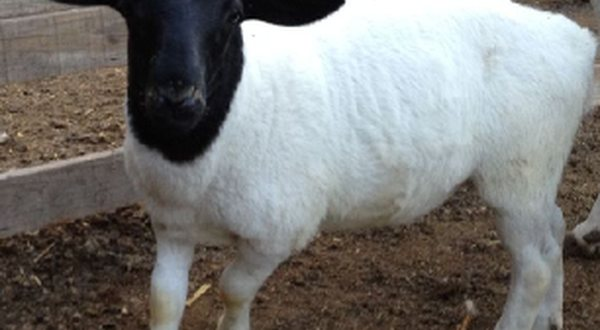
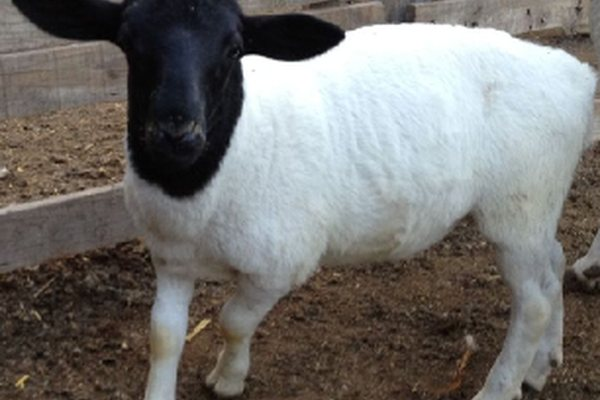
att

diff --git a/assets/css/style.css b/assets/css/style.css
@@ -316,7 +316,15 @@ ul    { list-style: none; padding: 0; }
 }
 .aa-raca-card:hover { transform: translateY(-4px); }
 .aa-raca-card-img {
-    width: 100%; height: 170px; object-fit: cover; display: block;
+    /* Antes: height fixo de 170px. Como o card tem largura variável, isso dava
+       uma faixa muito achatada (2,2:1) e cortava cabeça e patas do animal —
+       e as fotos vinham recortadas em faixa, então era corte sobre corte.
+       Com aspect-ratio a caixa acompanha a proporção da própria foto, então o
+       animal aparece inteiro em qualquer largura de card. */
+    width: 100%; height: auto;
+    aspect-ratio: 3 / 2;
+    object-fit: cover; object-position: center;
+    display: block; background: #f0fdf4;
 }
 .aa-raca-body { padding: 18px 22px 22px; }
 .aa-raca-emoji { font-size: 36px; margin-bottom: 10px; }
@@ -816,7 +824,7 @@ ul    { list-style: none; padding: 0; }
     .aa-hero { min-height: auto; padding: 90px 0 60px; }
     .aa-whatsapp-card, .aa-contact-card { padding: 24px; }
     .aa-about-box { padding: 32px 24px; }
-    .aa-raca-card-img { height: 140px; }
+    .aa-raca-card-img { height: auto; }  /* aspect-ratio cuida da altura */
     .aa-cta-box { padding: 32px 20px; }
     .aa-cta-title { font-size: 20px; }
     .aa-cta-desc  { font-size: 14px; }
@@ -837,7 +845,7 @@ ul    { list-style: none; padding: 0; }
     .aa-ficha-card { padding: 20px 16px; }
 
     /* Raças */
-    .aa-raca-card-img { height: 120px; }
+    .aa-raca-card-img { height: auto; }  /* aspect-ratio cuida da altura */
     .aa-raca-body     { padding: 14px 16px 16px; }
 
     /* WhatsApp / contato */
